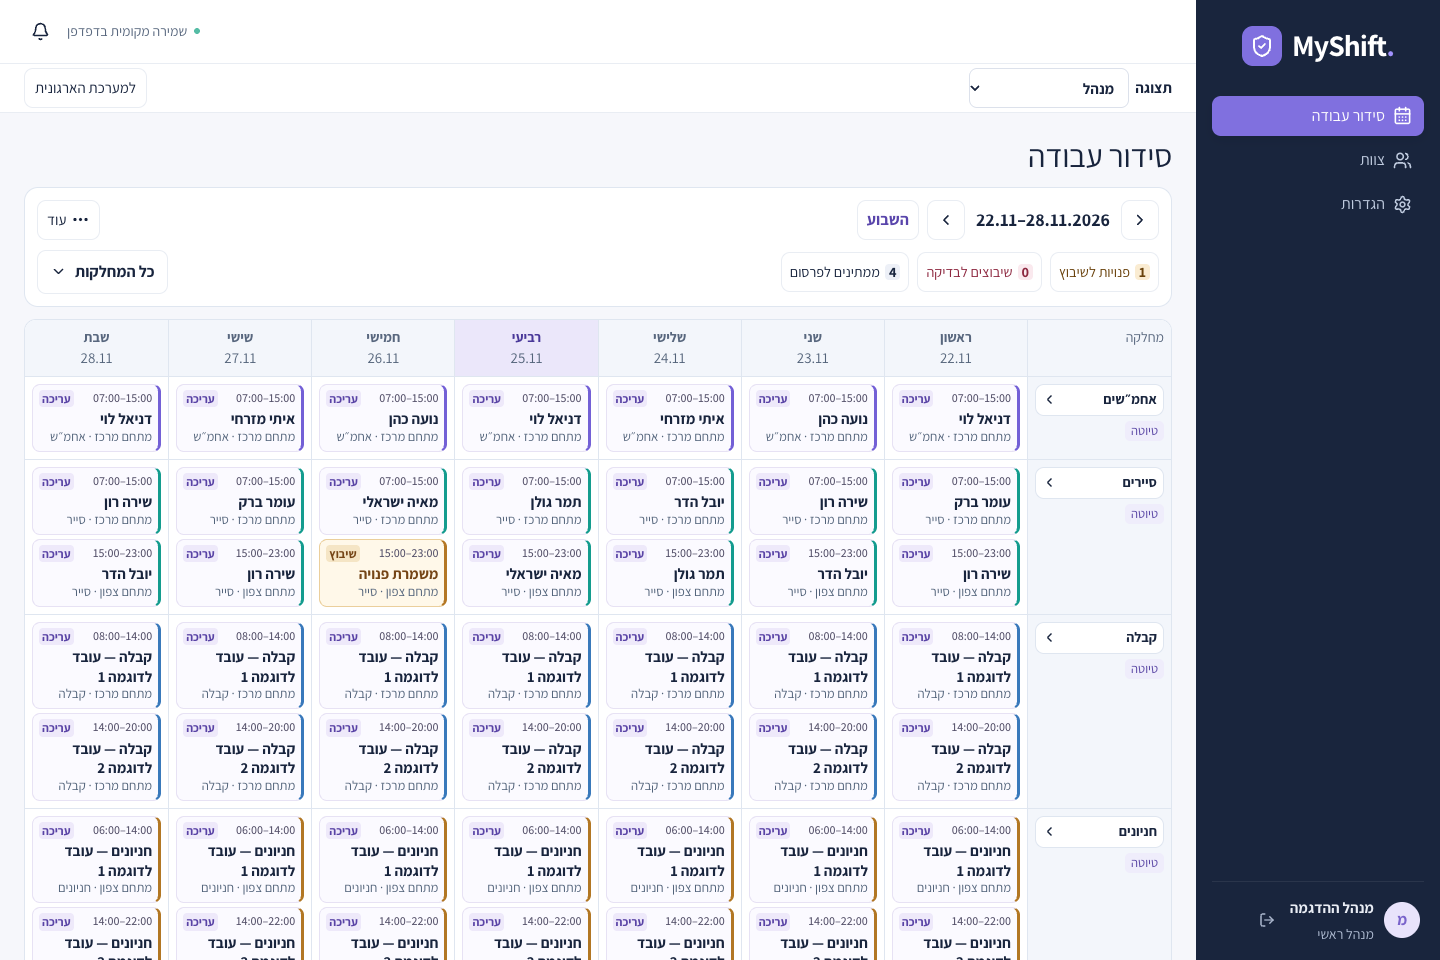
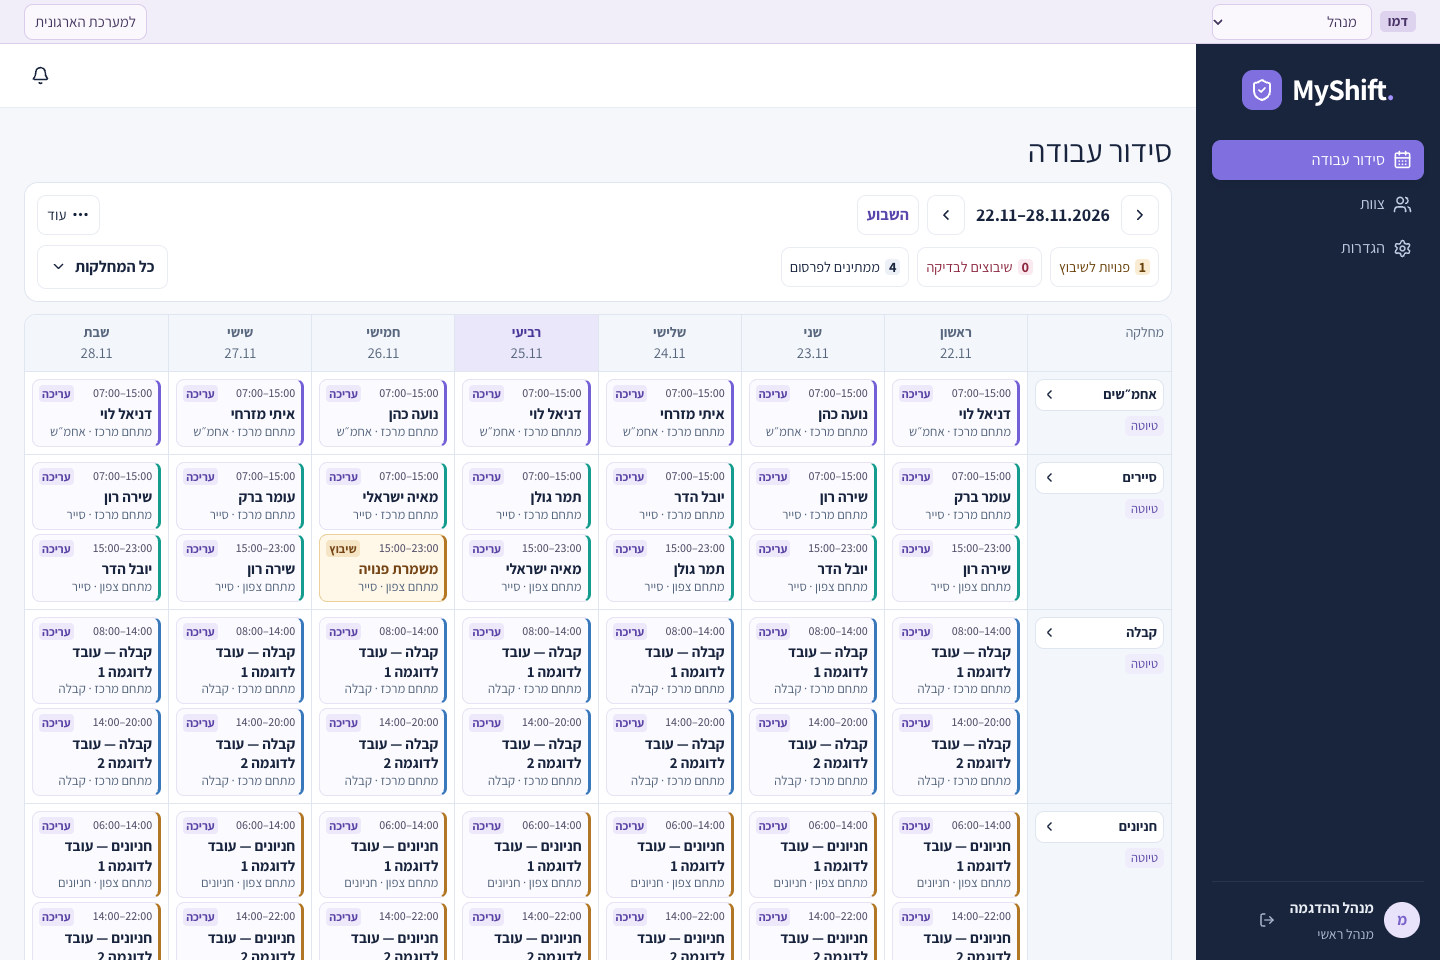
Separate demo controls from the workspace header

diff --git a/src/components/workspace.tsx b/src/components/workspace.tsx
@@ -1244,7 +1244,41 @@ export default function Workspace({
         </section>
       </main>
     );
-  return (
+  const demoControls = demo && demoReady && (
+    <div className="demo-banner" role="region" aria-label="מצב הדגמה">
+      <label className="demo-view-label">
+        <span className="demo-mode-label">דמו</span>
+        <select
+          aria-label="תצוגת הדגמה"
+          value={demoEmployee}
+          onChange={(e) => {
+            setDemoEmployee(e.target.value);
+            if (page === "team-desk") setPage("team-desk");
+            else if (e.target.value) setPage("schedule");
+            else openOrganization();
+            setFilter("");
+            setEmployeeFilter("");
+            setSiteFilter("");
+            setScheduleFocus("all");
+            setView("week");
+          }}
+        >
+          <option value="">מנהל</option>
+          {data.employees
+            .filter((e) => e.active)
+            .map((e) => (
+              <option key={e.id} value={e.id}>
+                עובד · {String(e.name)}
+              </option>
+            ))}
+        </select>
+      </label>
+      <Link className="button" href="/app">
+        למערכת הארגונית
+      </Link>
+    </div>
+  );
+  const workspace = (
     <div className={page === "schedule" ? "app planning" : "app"}>
       <aside className={menu ? "sidebar visible" : "sidebar"}>
         <Link className="brand" href="/">
@@ -1342,14 +1376,12 @@ export default function Workspace({
             <strong className="workspace-mobile-brand">MyShift</strong>
           </div>
           <div className="row">
-            <span className="connection">
-              <i className="dot" />
-              {demo
-                ? "שמירה מקומית בדפדפן"
-                : userId
-                  ? "רענון אוטומטי · כל 10 שניות"
-                  : "סביבת עבודה חדשה"}
-            </span>
+            {!demo && (
+              <span className="connection">
+                <i className="dot" />
+                {userId ? "רענון אוטומטי · כל 10 שניות" : "סביבת עבודה חדשה"}
+              </span>
+            )}
             <button
               aria-label={
                 unreadNotices ? `התראות, ${unreadNotices} חדשות` : "התראות"
@@ -1365,40 +1397,6 @@ export default function Workspace({
             </button>
           </div>
         </header>
-        {demo && demoReady && (
-          <div className="demo-banner" role="region" aria-label="מצב הדגמה">
-            <label className="demo-view-label">
-              תצוגה
-              <select
-                aria-label="תצוגת הדגמה"
-                value={demoEmployee}
-                onChange={(e) => {
-                  setDemoEmployee(e.target.value);
-                  if (page === "team-desk") setPage("team-desk");
-                  else if (e.target.value) setPage("schedule");
-                  else openOrganization();
-                  setFilter("");
-                  setEmployeeFilter("");
-                  setSiteFilter("");
-                  setScheduleFocus("all");
-                  setView("week");
-                }}
-              >
-                <option value="">מנהל</option>
-                {data.employees
-                  .filter((e) => e.active)
-                  .map((e) => (
-                    <option key={e.id} value={e.id}>
-                      עובד · {String(e.name)}
-                    </option>
-                  ))}
-              </select>
-            </label>
-            <Link className="button" href="/app">
-              למערכת הארגונית
-            </Link>
-          </div>
-        )}
         <div className="content">
           <div className="workspace-heading">
             {canEdit && page === "schedule" && (
@@ -3221,6 +3219,12 @@ export default function Workspace({
         </Modal>
       )}
     </div>
+  );
+  return (
+    <>
+      {demoControls}
+      {workspace}
+    </>
   );
 }
 function Empty({ text }: { text: string }) {

diff --git a/src/app/globals.css b/src/app/globals.css
@@ -7,6 +7,7 @@
   --line: #e9edf3;
   --purple: #7360d6;
   --nav: #19253d;
+  --demo-bar-height: 44px;
 }
 * {
   box-sizing: border-box;
@@ -1174,18 +1175,31 @@ button:disabled {
   cursor: not-allowed;
 }
 .demo-banner {
+  position: sticky;
+  inset-block-start: 0;
+  z-index: 21;
   display: flex;
   align-items: center;
   justify-content: space-between;
   gap: 10px;
-  padding: 4px clamp(10px, 2vw, 24px);
-  background: #fff;
-  border-bottom: 1px solid var(--line);
+  height: var(--demo-bar-height);
+  padding-inline: clamp(10px, 2vw, 24px);
+  background: #f1edf9;
+  border-bottom: 1px solid #d9cdeb;
+}
+.demo-banner + .app {
+  min-height: calc(100vh - var(--demo-bar-height));
+}
+.demo-banner + .app .sidebar {
+  inset-block-start: var(--demo-bar-height);
 }
 .demo-banner .button,
 .demo-banner select {
-  min-height: 40px;
-  padding-block: 6px;
+  min-height: 36px;
+  padding-block: 4px;
+  border-color: #d9cdeb;
+  background: #faf8fd;
+  color: #45365f;
   font-size: 0.9375rem;
 }
 .demo-banner .button {
@@ -1195,11 +1209,18 @@ button:disabled {
 }
 .demo-view-label {
   display: flex;
-  gap: 6px;
+  gap: 8px;
   align-items: center;
   min-width: 0;
-  font-size: 0.9375rem;
-  font-weight: bold;
+}
+.demo-mode-label {
+  flex: none;
+  padding-inline: 8px;
+  border-radius: 5px;
+  background: #ded3ee;
+  color: #493367;
+  font-size: 0.875rem;
+  font-weight: 700;
 }
 .demo-view-label select {
   width: 160px;

diff --git a/e2e/workspace.spec.ts b/e2e/workspace.spec.ts
@@ -32,6 +32,11 @@ test("landing and demo fit phone and navigation works", async ({ page }) => {
   const view = controls.getByRole("combobox", { name: "תצוגת הדגמה" });
   const organization = controls.getByRole("link", { name: "למערכת הארגונית" });
   await expect(view).toBeVisible();
+  await expect(controls.getByText("דמו", { exact: true })).toBeVisible();
+  await expect(
+    page.getByRole("main").getByRole("region", { name: "מצב הדגמה" }),
+  ).toHaveCount(0);
+  const topbar = page.locator(".topbar");
   await expect(organization).toHaveAttribute("href", "/app");
   await expect(controls).not.toContainText("נתונים לדוגמה");
   await expect(controls).not.toContainText("השינויים נשמרים");
@@ -40,6 +45,9 @@ test("landing and demo fit phone and navigation works", async ({ page }) => {
     const viewBox = (await view.boundingBox())!;
     const linkBox = (await organization.boundingBox())!;
     expect(Math.abs(viewBox.y - linkBox.y)).toBeLessThan(2);
+    expect(viewBox.y + viewBox.height).toBeLessThan(
+      (await topbar.boundingBox())!.y,
+    );
     expect(viewBox.x + viewBox.width).toBeLessThanOrEqual(width);
     expect(linkBox.x).toBeGreaterThanOrEqual(0);
   }

diff --git a/README.md b/README.md
@@ -37,7 +37,7 @@ npm ci
 npm run dev
 ```
 
-פתחו את [הדמו המקומי](http://localhost:3000/demo) כדי להתנסות עם 12 עובדים לדוגמה בארבע מחלקות ובשני אתרים. אפשר לשנות שיבוצים, לפרסם סידור ולבחור עובד בבורר **תצוגה**. השינויים נשמרים ב־`localStorage` של הדפדפן תחת `myshift.demo.v1`. הדמו זמין ללא התחברות, מפתחות או מסד נתונים.
+פתחו את [הדמו המקומי](http://localhost:3000/demo) כדי להתנסות עם 12 עובדים לדוגמה בארבע מחלקות ובשני אתרים. אפשר לשנות שיבוצים, לפרסם סידור ולבחור עובד בפס **דמו** שמעל לאפליקציה. השינויים נשמרים ב־`localStorage` של הדפדפן תחת `myshift.demo.v1`. הדמו זמין ללא התחברות, מפתחות או מסד נתונים.
 
 ![מסך תלושים ותזכורות בדמו של MyShift](docs/screenshots/team-desk.png)
 
